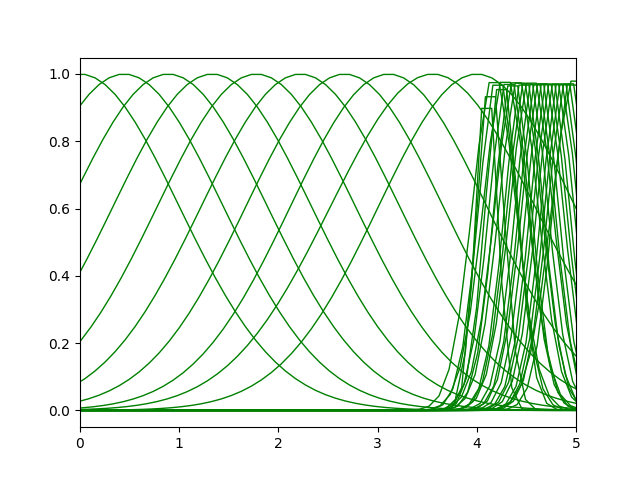
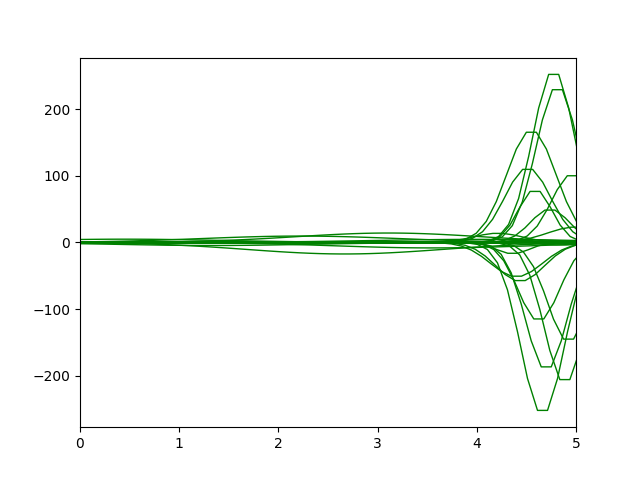
Working example

diff --git a/krr/main.py b/krr/main.py
@@ -10,10 +10,10 @@ def f(x):
     """
     """
     # np.cos(0.5*np.pi*x) + 1 +
-    res = np.cos(0.5*np.pi*x) + 1
+    res = np.cos(0.5*np.pi*x) 
     for i in range(len(x)):
         if x[i] >= 4:
-            res[i] += + 0.2*np.sin(8*np.pi*x[i]) 
+            res[i] += + 0.2*np.sin(8*np.pi*x[i])
         
     return res
 
@@ -41,7 +41,7 @@ xval = np.append(np.linspace(0.2,4.8,15),np.linspace(4.1,4.8,15))
 yval = f(xval)+noise*np.random.normal(size=Nval)
 
 
-sigma = 0.1
+sigma = 0.7
 sigmaVec = np.array([sigma for i in range(Ntrain)])
 sigmaVec = np.append(np.linspace(1,1,10),np.linspace(0.2,0.2,25))
 gamma = 0.00001
@@ -56,8 +56,8 @@ KRR = regressor(kernel=gaussKernel,
                 gamma=gamma)
 KRR.getAlpha()
 
-beta = 0.005
-M = 40
+beta = 0.01
+M = 100
 tol = 2e-5
 
 for i in range(M):
@@ -112,8 +112,8 @@ KRR.getAlpha()
 fig = plt.figure()
 ax = fig.gca()
 plotf(ax,f,0,5)
-plotPoints(ax,xtrain,ytrain)
-plotPoints(ax,xval,yval)
+# plotPoints(ax,xtrain,ytrain)
+# plotPoints(ax,xval,yval)
 plotPred(ax,KRR,0,5)
 fig.savefig('functionPlot.png')
 
@@ -153,7 +153,7 @@ for xt in xtrain:
         xlocal = np.linspace(xt-5,xt+5,NKernelList)
         i = 0
         for xl in xlocal:
-            kernelList[i] = gaussKernel(xt,xl,KRR.sigmaVec[j])
+            kernelList[i] = KRR.alpha[j]*gaussKernel(xt,xl,KRR.sigmaVec[j])
             # KRR.alpha[j]*gaussKernel(xt,xl,KRR.sigmaVec[j])
             i+=1
         ax.plot(xlocal,kernelList,'green',linewidth=1)

diff --git a/krr/plots.py b/krr/plots.py
@@ -23,7 +23,7 @@ def plotPoints(ax,x,y):
 def plotPred(ax,KRR,xstart,xend):
     """
     """
-    x = np.linspace(xstart,xend,100)
+    x = np.linspace(xstart,xend,400)
     y = KRR.predict(x)
     p = ax.plot(x,y)
     return p
